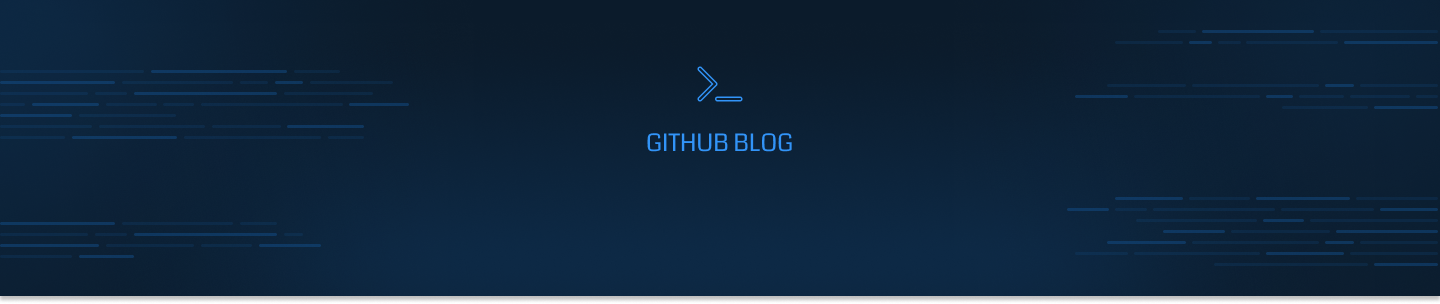
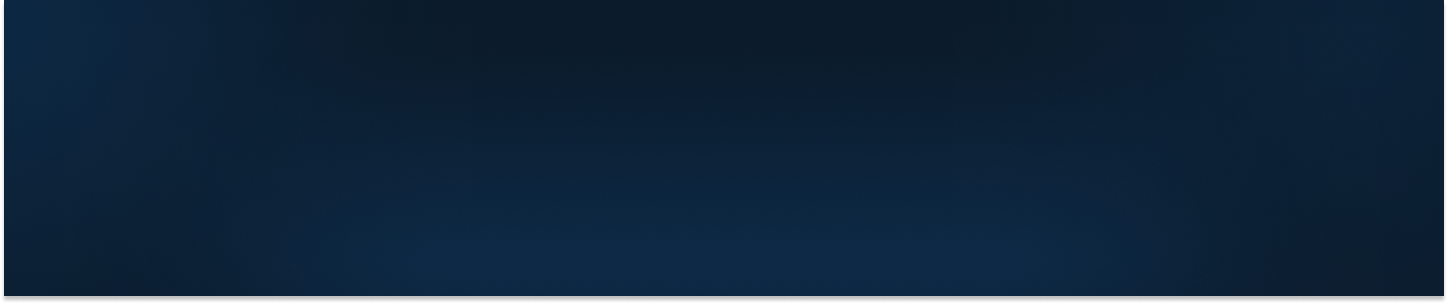
feat: criação do profile

diff --git a/src/components/Posts/index.tsx b/src/components/Posts/index.tsx
@@ -1,0 +1,80 @@
+import { Content, Post, Container, Title } from "./styles";
+
+export function Posts() {
+  return (
+    <Container>
+      <Post>
+        <Title>
+          <h4>JavaScript data types and data structures</h4>
+          <span>Há 1 dia</span>
+        </Title>
+        <Content>
+          Lorem ipsum dolor sit, amet consectetur adipisicing elit. Non atque
+          harum necessitatibus? Ea tempora saepe est? Aspernatur perspiciatis
+          optio assumenda sed provident laboriosam quae laudantium impedit
+          tenetur amet. Quas, iste! Lorem ipsum dolor sit, amet consectetur
+          adipisicing elit. Repellendus labore natus culpa perspiciatis
+          architecto accusamus in impedit tempora fugit harum iusto nostrum
+          facilis aperiam sapiente, veniam, quis veritatis quam voluptate. Lorem
+          ipsum dolor sit amet consectetur adipisicing elit. Recusandae, qui?
+          Dolore et nam a exercitationem dicta quos laboriosam non illum. Iure,
+          eius. Perspiciatis possimus ipsam enim saepe quisquam velit nemo!
+        </Content>
+      </Post>
+      <Post>
+        <Title>
+          <h4>JavaScript data types and data structures</h4>
+          <span>Há 1 dia</span>
+        </Title>
+        <Content>
+          Lorem ipsum dolor sit, amet consectetur adipisicing elit. Non atque
+          harum necessitatibus? Ea tempora saepe est? Aspernatur perspiciatis
+          optio assumenda sed provident laboriosam quae laudantium impedit
+          tenetur amet. Quas, iste! Lorem ipsum dolor sit, amet consectetur
+          adipisicing elit. Repellendus labore natus culpa perspiciatis
+          architecto accusamus in impedit tempora fugit harum iusto nostrum
+          facilis aperiam sapiente, veniam, quis veritatis quam voluptate. Lorem
+          ipsum dolor sit amet consectetur adipisicing elit. Recusandae, qui?
+          Dolore et nam a exercitationem dicta quos laboriosam non illum. Iure,
+          eius. Perspiciatis possimus ipsam enim saepe quisquam velit nemo!
+        </Content>
+      </Post>
+      <Post>
+        <Title>
+          <h4>JavaScript data types and data structures</h4>
+          <span>Há 1 dia</span>
+        </Title>
+        <Content>
+          Lorem ipsum dolor sit, amet consectetur adipisicing elit. Non atque
+          harum necessitatibus? Ea tempora saepe est? Aspernatur perspiciatis
+          optio assumenda sed provident laboriosam quae laudantium impedit
+          tenetur amet. Quas, iste! Lorem ipsum dolor sit, amet consectetur
+          adipisicing elit. Repellendus labore natus culpa perspiciatis
+          architecto accusamus in impedit tempora fugit harum iusto nostrum
+          facilis aperiam sapiente, veniam, quis veritatis quam voluptate. Lorem
+          ipsum dolor sit amet consectetur adipisicing elit. Recusandae, qui?
+          Dolore et nam a exercitationem dicta quos laboriosam non illum. Iure,
+          eius. Perspiciatis possimus ipsam enim saepe quisquam velit nemo!
+        </Content>
+      </Post>
+      <Post>
+        <Title>
+          <h4>JavaScript data types and data structures</h4>
+          <span>Há 1 dia</span>
+        </Title>
+        <Content>
+          Lorem ipsum dolor sit, amet consectetur adipisicing elit. Non atque
+          harum necessitatibus? Ea tempora saepe est? Aspernatur perspiciatis
+          optio assumenda sed provident laboriosam quae laudantium impedit
+          tenetur amet. Quas, iste! Lorem ipsum dolor sit, amet consectetur
+          adipisicing elit. Repellendus labore natus culpa perspiciatis
+          architecto accusamus in impedit tempora fugit harum iusto nostrum
+          facilis aperiam sapiente, veniam, quis veritatis quam voluptate. Lorem
+          ipsum dolor sit amet consectetur adipisicing elit. Recusandae, qui?
+          Dolore et nam a exercitationem dicta quos laboriosam non illum. Iure,
+          eius. Perspiciatis possimus ipsam enim saepe quisquam velit nemo!
+        </Content>
+      </Post>
+    </Container>
+  );
+}

diff --git a/src/components/UserInformationCard/index.tsx b/src/components/UserInformationCard/index.tsx
@@ -1,0 +1,53 @@
+import {
+  BodyCard,
+  Info,
+  Photo,
+  Title,
+  Name,
+  GitHubButton,
+  Bio,
+  SocialInfos,
+} from "./styles";
+
+import arrow from "../../assets/arrow-up-right-from-square.svg";
+import github from "../../assets/github-brands.svg";
+import building from "../../assets/building.svg";
+import usergroup from "../../assets/user-group.svg";
+import TopCard from "../TopCard";
+
+export function UserInformationCard() {
+  return (
+    <TopCard>
+      <BodyCard>
+        <Photo src="https://scontent-gru2-1.xx.fbcdn.net/v/t39.30808-6/305385992_197855145920249_1799303807612572572_n.jpg?_nc_cat=109&ccb=1-7&_nc_sid=a2f6c7&_nc_ohc=Koc9TNanAPEAX96zNFJ&_nc_ht=scontent-gru2-1.xx&oh=00_AfCWRasiaSu2hCYIX__MEZM6vJdR-AGjDinWUOyIASmlbA&oe=6512AB50" />
+        <Info>
+          <Title>
+            <Name>Andressa Reis Araujo</Name>
+            <GitHubButton>
+              github{" "}
+              <img width="12px" height="12px" src={arrow} alt="Explore" />
+            </GitHubButton>
+          </Title>
+          <Bio>
+            Tristique volutpat pulvinar vel massa, pellentesque egestas. Eu
+            viverra massa quam dignissim aenean malesuada suscipit. Nunc,
+            volutpat pulvinar vel mass.
+          </Bio>
+          <SocialInfos>
+            <span>
+              <img src={github} alt="" />
+              andessara
+            </span>
+            <span>
+              <img src={building} alt="" />
+              Itaú Unibanco
+            </span>
+            <span>
+              <img src={usergroup} alt="" />2 seguidores
+            </span>
+          </SocialInfos>
+        </Info>
+      </BodyCard>
+    </TopCard>
+  );
+}

diff --git a/src/components/UserInformationCard/styles.ts b/src/components/UserInformationCard/styles.ts
@@ -1,0 +1,73 @@
+import styled from "styled-components";
+
+export const BodyCard = styled.div`
+  display: flex;
+  flex-direction: row;
+  gap: 32px;
+`;
+
+export const Photo = styled.img`
+  width: 148px;
+  height: 148px;
+  border-radius: 8px;
+`;
+
+export const Info = styled.div`
+  display: flex;
+  flex-direction: column;
+`;
+
+export const Title = styled.div`
+  display: flex;
+  flex-wrap: wrap;
+  flex-direction: row;
+  align-items: center;
+  justify-content: space-between;
+`;
+
+export const Name = styled.h2`
+  font-size: 24px;
+  font-weight: bold;
+  line-height: 130%;
+  color: ${(props) => props.theme["base-title"]};
+`;
+
+export const GitHubButton = styled.button`
+  display: flex;
+  flex-direction: row;
+  align-items: center;
+  gap: 8px;
+  text-transform: uppercase;
+  font-size: 12px;
+  font-weight: bold;
+  line-height: 160%;
+  color: ${(props) => props.theme["blue"]};
+`;
+
+export const Bio = styled.p`
+  font-size: 16px;
+  line-height: 160%;
+  color: ${(props) => props.theme["base-text"]};
+`;
+
+export const SocialInfos = styled.div`
+  display: flex;
+  flex-direction: row;
+  flex-wrap: wrap;
+  align-items: center;
+  gap: 34px;
+  margin-top: 24px;
+
+  span {
+    font-size: 16px;
+    white-space: nowrap;
+    line-height: 160%;
+    color: ${(props) => props.theme["base-text"]};
+
+    img {
+      width: 18px;
+      height: 18px;
+      margin-right: 8px;
+    }
+  }
+`;

diff --git a/src/components/Posts/styles.ts b/src/components/Posts/styles.ts
@@ -1,0 +1,43 @@
+import styled from "styled-components";
+
+export const Container = styled.div`
+  display: grid;
+  grid-template-columns: repeat(2, 1fr);
+  gap: 16px;
+`;
+
+export const Post = styled.div`
+  border-radius: 10px;
+  padding: 32px;
+  background-color: ${(props) => props.theme["base-post"]};
+`;
+
+export const Title = styled.div`
+  display: flex;
+  flex-direction: row;
+  justify-content: space-between;
+  flex-wrap: wrap;
+
+  h4 {
+    font-size: 20px;
+    line-height: 160%;
+    color: ${(props) => props.theme["base-title"]};
+  }
+
+  span {
+    font-size: 14px;
+    line-height: 160%;
+    color: ${(props) => props.theme["base-span"]};
+  }
+`;
+
+export const Content = styled.p`
+  font-size: 16px;
+  line-height: 160%;
+  color: ${(props) => props.theme["base-text"]};
+  display: -webkit-box;
+  -webkit-line-clamp: 4;
+  -webkit-box-orient: vertical;
+  overflow: hidden;
+  margin-top: 20px;
+`;

diff --git a/src/components/Profile/index.tsx b/src/components/Profile/index.tsx
@@ -1,0 +1,34 @@
+import { Container } from "./styles";
+
+import { UserInformationCard } from "../UserInformationCard";
+import { Posts } from "../Posts";
+
+export function Profile() {
+  return (
+    <Container>
+      <UserInformationCard />
+      <div
+        style={{
+          display: "flex",
+          flexDirection: "column",
+          marginTop: "72px",
+          marginBottom: "42px",
+        }}
+      >
+        <div
+          style={{
+            display: "flex",
+            flexDirection: "row",
+            justifyContent: "space-between",
+            marginBottom: "12px",
+          }}
+        >
+          <h3>Publicações</h3>
+          <span>6 publicações</span>
+        </div>
+        <input type="text" placeholder="Buscar conteúdo" />
+      </div>
+      <Posts />
+    </Container>
+  );
+}

diff --git a/src/App.tsx b/src/App.tsx
@@ -2,14 +2,16 @@ import { ThemeProvider } from "styled-components";
 import { defaultTheme } from "./styles/themes/default";
 import { GlobalStyle } from "./styles/global";
 import { Header } from "./components/Header";
+import { Profile } from "./components/Profile";
 
 function App() {
   return (
     <ThemeProvider theme={defaultTheme}>
       <GlobalStyle />
       <Header />
+      <Profile />
     </ThemeProvider>
   );
 }
 
-export default App;
+export default App; /*  */

diff --git a/src/components/Header/styles.ts b/src/components/Header/styles.ts
@@ -1,11 +1,17 @@
 import styled from "styled-components";
+import cover from "../../assets/cover.png";
 
 export const Container = styled.header`
   display: flex;
   width: 100vw;
   height: 296px;
-  background-color: ${(props) => props.theme["base-profile"]};
+  background-image: url(${cover});
+  background-position: center;
+  background-size: cover;
   justify-content: center;
+  border: 1px solid red h1 {
+    margin-top: 64px;
+  }
 
   h1 {
     margin-top: 64px;

diff --git a/src/components/TopCard/index.tsx b/src/components/TopCard/index.tsx
@@ -1,0 +1,12 @@
+// Criar uma função que receba o filho para ser renderizado, o filho será um componente
+
+import { ReactNode } from "react";
+import { Container } from "./styles";
+
+interface Props {
+  children: ReactNode;
+}
+
+export default function TopCard({ children }: Props) {
+  return <Container>{children}</Container>;
+}

diff --git a/src/components/Profile/styles.ts b/src/components/Profile/styles.ts
@@ -1,0 +1,12 @@
+import styled from "styled-components";
+
+export const Container = styled.div`
+  position: absolute;
+  width: 100vw;
+  padding: 0 20%;
+`;
+
+export const Search = styled.div`
+  display: flex;
+  flex-direction: column;
+`;

diff --git a/src/components/TopCard/styles.ts b/src/components/TopCard/styles.ts
@@ -1,0 +1,8 @@
+import styled from "styled-components";
+
+export const Container = styled.div`
+  margin-top: -100px;
+  border-radius: 10px;
+  padding: 32px 40px;
+  background-color: ${(props) => props.theme["base-profile"]};
+`;

diff --git a/src/styles/global.ts b/src/styles/global.ts
@@ -18,4 +18,8 @@ export const GlobalStyle = createGlobalStyle`
     body, input, textarea, button{
         font: 400 1rem 'Nunito', sans-serif;
     }
+
+    button{
+        all: unset;
+    }
 `;
